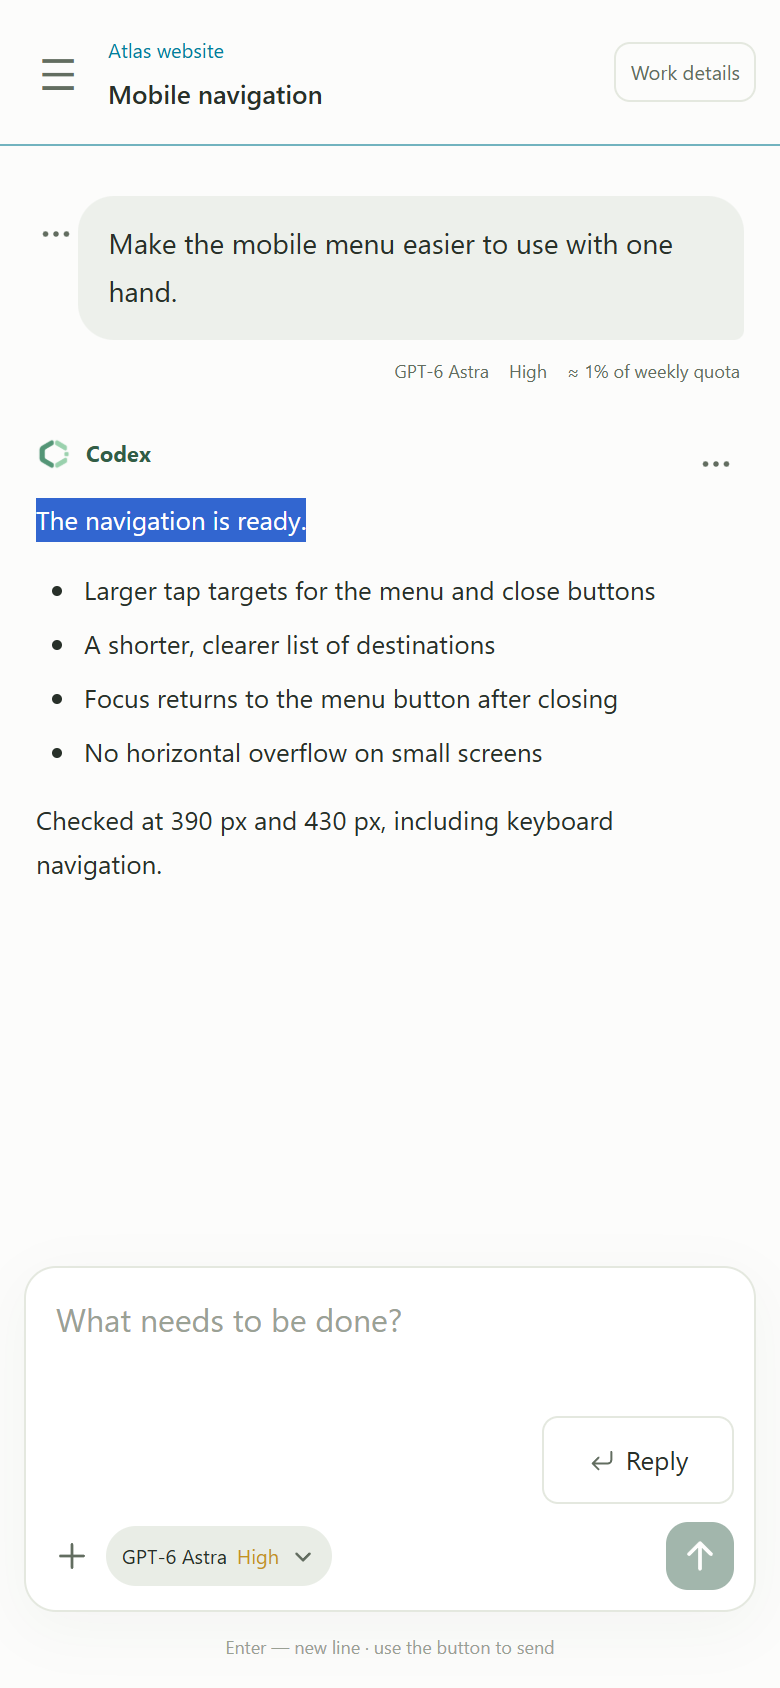
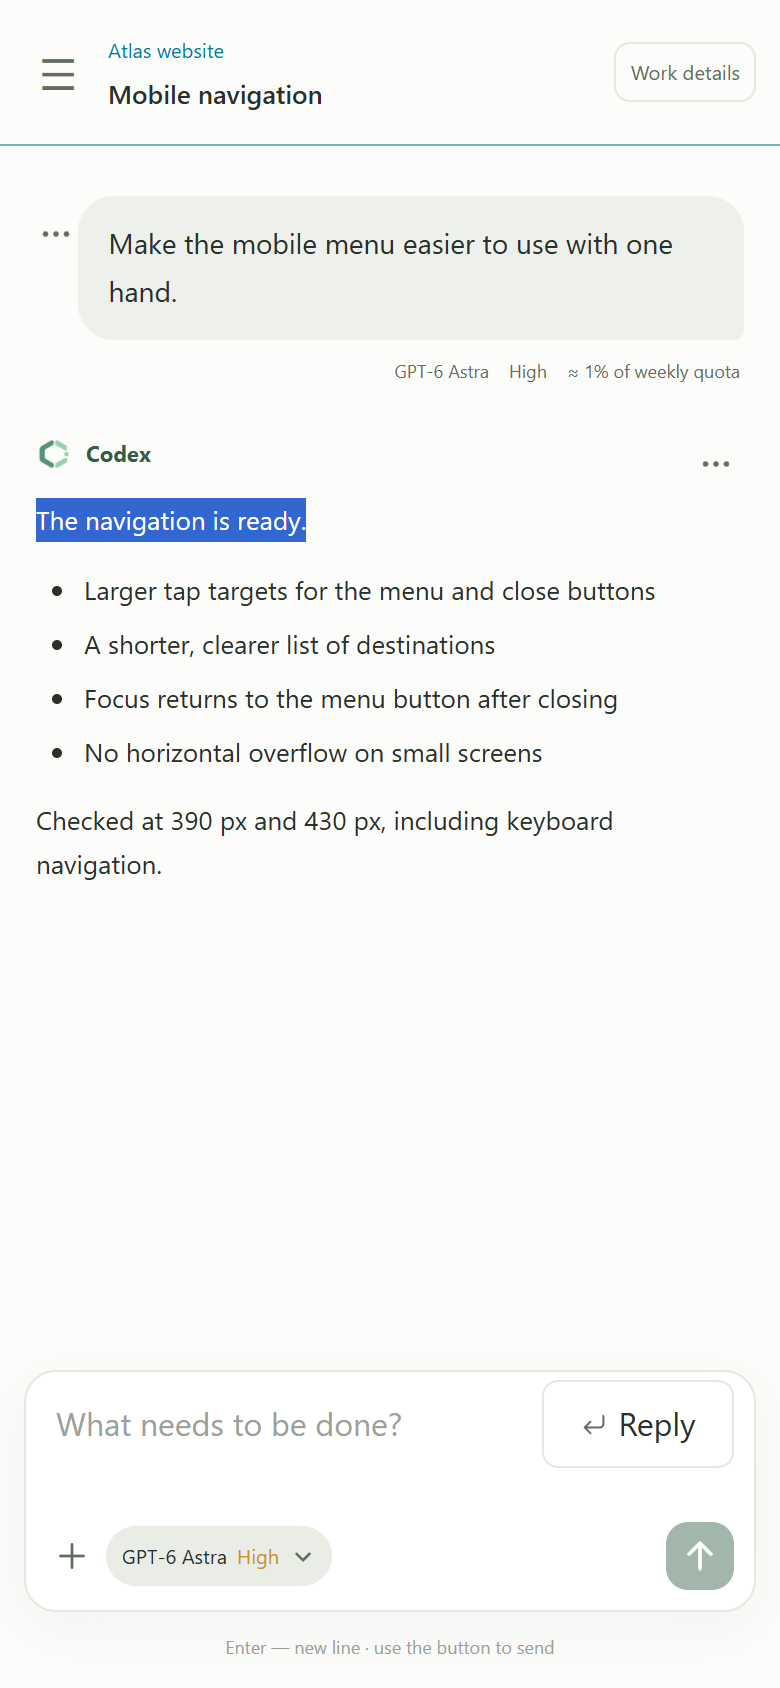
Docs: show aligned mobile Reply and conditional keyboard dismissal in 0.8.32 [skip ci]

diff --git a/README.md b/README.md
@@ -14,7 +14,7 @@ This repository contains **installers and documentation**. Application source co
 
 ![Codex Local desktop workspace with projects, a launch checklist and usage limits](assets/screenshots/en/workspace-light.png)
 
-<p align="center"><sub>Codex Local 0.8.31 · Actual interface with demo projects and conversations.</sub></p>
+<p align="center"><sub>Codex Local 0.8.32 · Actual interface with demo projects and conversations.</sub></p>
 
 ## Features
 
@@ -52,7 +52,7 @@ Messages sent while a task is running wait in a queue. Rearrange them, edit thei
 
 Open a message’s **⋯ menu** and choose **Write a reply**. The selected message appears above the composer; write your reply without copying the full original text. To reply to a specific passage, select it and press **Reply**. Your existing draft stays in place.
 
-On phones, **Reply** appears in its own composer row below the text field, clear of the native selection menu. Tapping it scrolls the chat to the bottom and keeps the reply field and Send button above the keyboard. Tap outside the field to dismiss the keyboard and keep your draft.
+On phones, **Reply** appears on the right, aligned with the message field's first line and separate from the native selection menu. Tapping it scrolls the chat to the bottom and keeps the reply field and Send button above the keyboard. Tap outside the field to dismiss the keyboard and keep your draft. Cancelling a reply dismisses the keyboard only when the field is empty; if text is already written, editing stays active.
 
 **Forward** prepares the selected message with its files and photos in another chat. Choose a project, then a new chat or one of the five most recent chats; load five more when needed. A card appears above the destination composer: add a comment, keep it as a draft or cancel it. The message is sent only when you press **Send**. After sending, you can also notify the source chat that the original message was meant for another chat.
 
@@ -101,9 +101,9 @@ The mobile layout keeps conversations, projects and usage limits within reach. Y
   <a href="assets/screenshots/en/mobile-projects.png"><img src="assets/screenshots/en/mobile-projects.png" width="340" alt="Mobile project list with active tasks, usage limits and settings"></a>
 </p>
 
-Select a passage and press **Reply** in the composer. The button sits below the text field, separate from the native actions for selected text.
+Select a passage and press **Reply** in the composer. The button sits on the right, aligned with the message field's first line and separate from the native actions for selected text.
 
-<p align="center"><a href="assets/screenshots/en/mobile-reply.png"><img src="assets/screenshots/en/mobile-reply.png" width="340" alt="Selected passage in a mobile chat with a separate Reply button below the message field"></a></p>
+<p align="center"><a href="assets/screenshots/en/mobile-reply.png"><img src="assets/screenshots/en/mobile-reply.png" width="340" alt="Selected passage in a mobile chat with Reply on the right, aligned with the message field's first line"></a></p>
 
 ## Ways to connect
 
